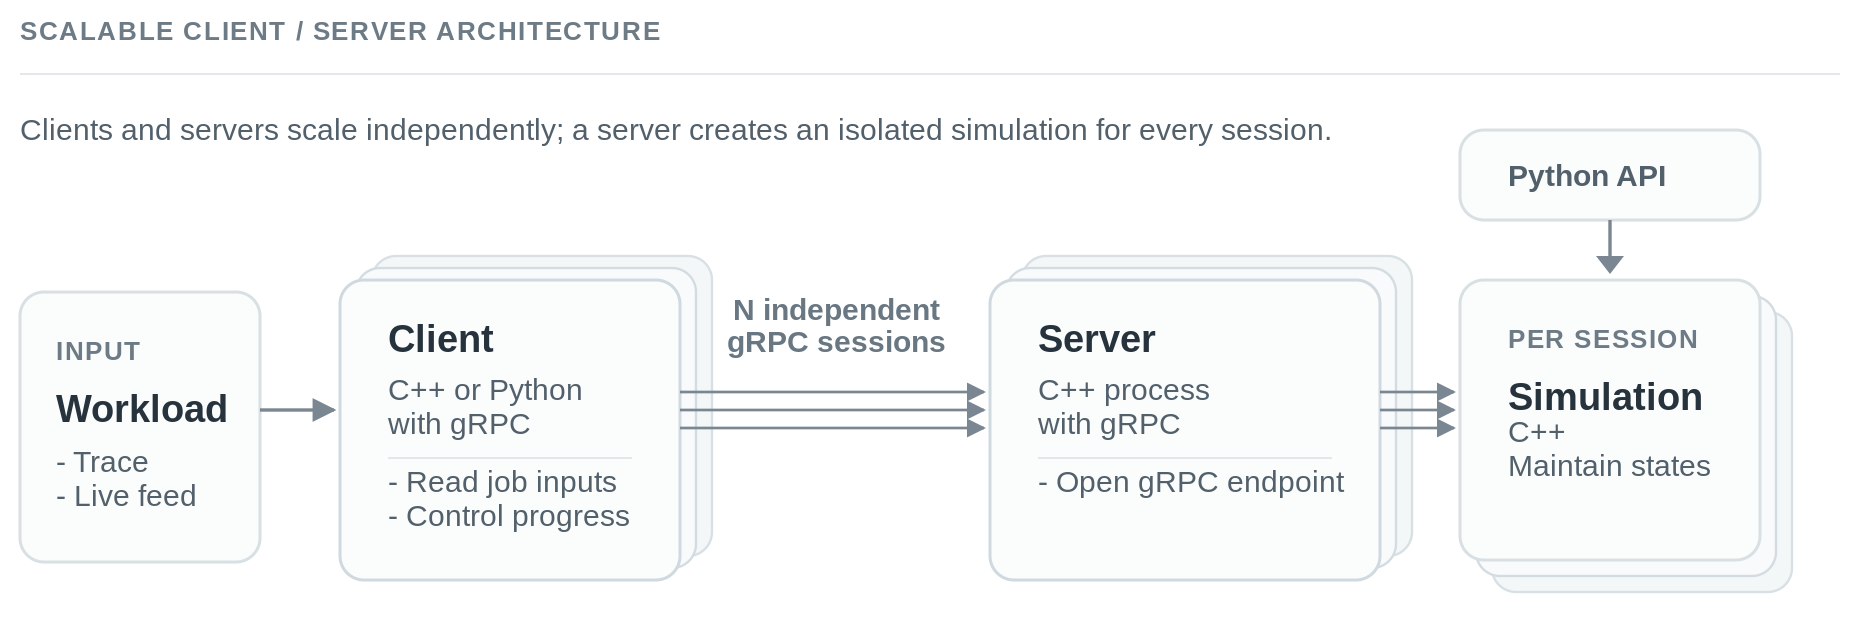
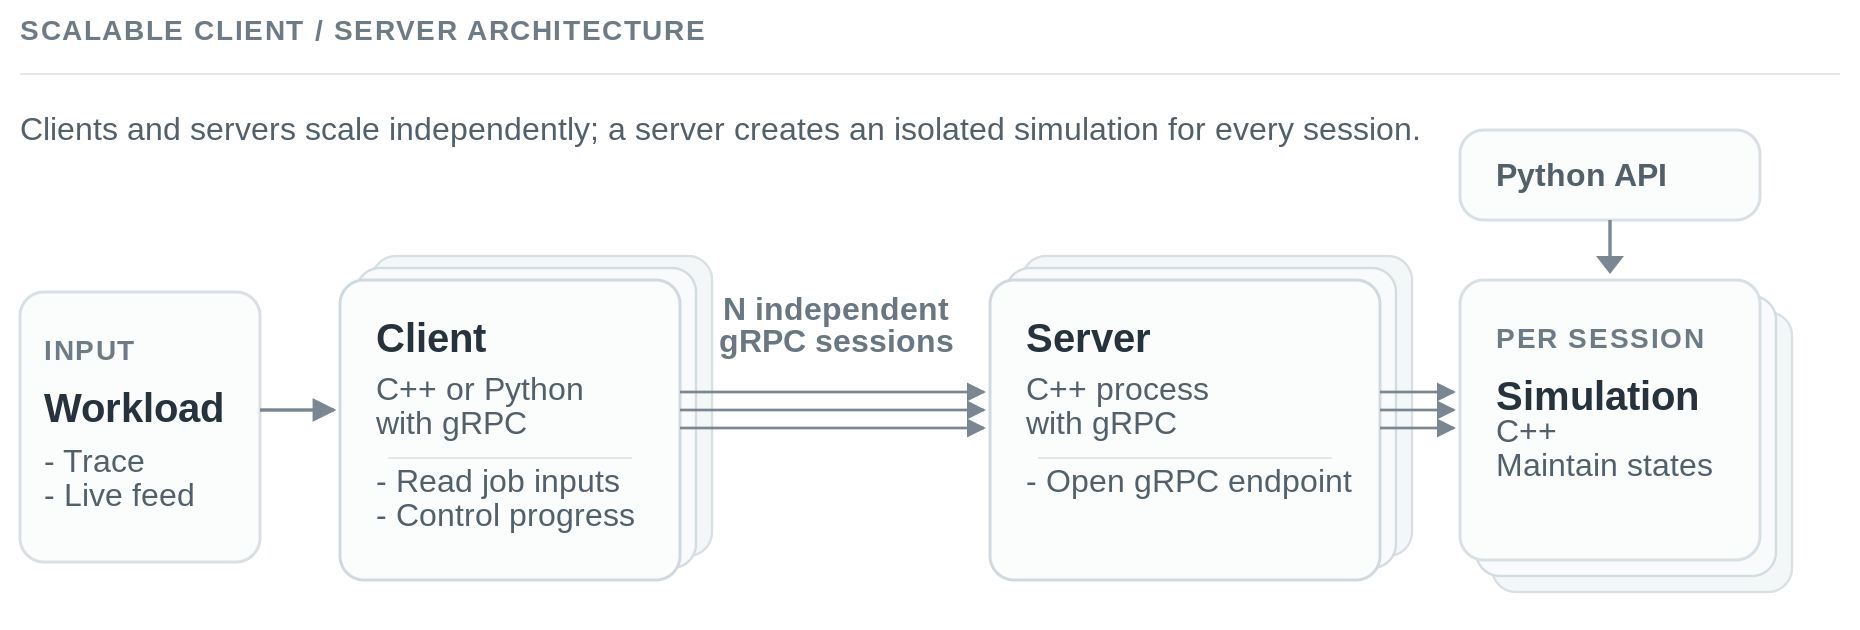
docs: adjust diagrams

diff --git a/docs/_static/custom.css b/docs/_static/custom.css
@@ -22,9 +22,9 @@
     fill: #234d31 !important;
 }
 
-/* Mermaid's default sequence-diagram text is 12 pt; increase it by 2 pt. */
+/* Mermaid's default sequence-diagram text is 12 pt; increase it to 16 pt. */
 #composite-stream-timeline > svg text {
-    font-size: 14pt !important;
+    font-size: 16pt !important;
 }
 
 /* Replace the yellow sequence notes in the Client/server session diagram. */
